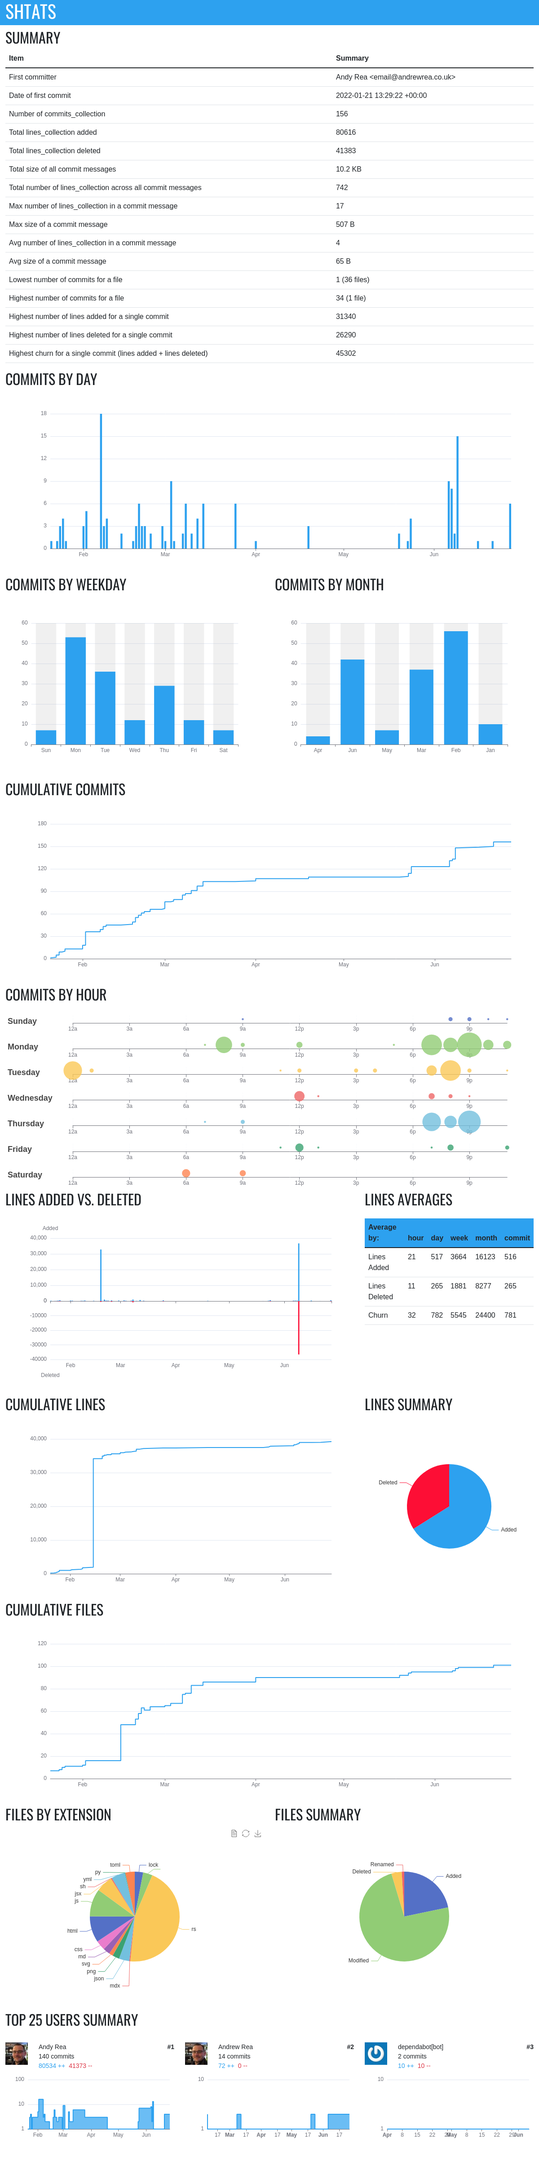
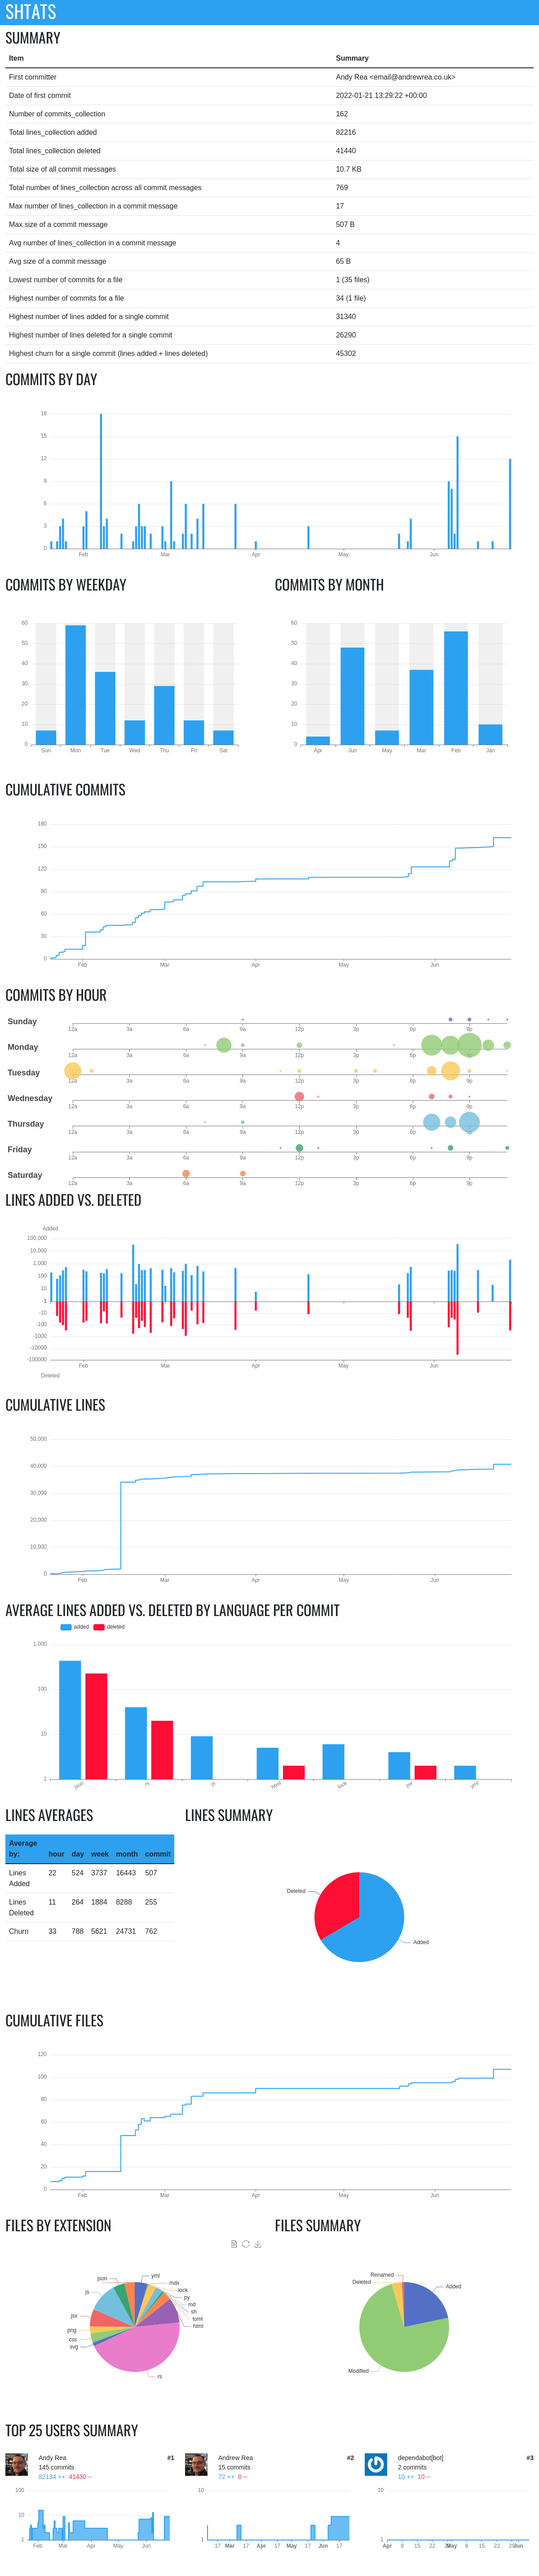
Fix the yaxis and how the totals are counted

diff --git a/report/html/components/lines_added_deleted_by_language/index.js b/report/html/components/lines_added_deleted_by_language/index.js
@@ -5,17 +5,16 @@ import {line_chart} from "../../utils/echarts";
 
 
 export default function LinesAddedDeletedByLanguage({data}) {
-    console.log('DATA for LinesAddedDeletedByLanguage', data)
     function draw(s, data) {
-        var chartDom = document.getElementById(s);
-        var myChart = echarts.init(chartDom);
-        var option;
+        const chartDom = document.getElementById(s);
+        const myChart = echarts.init(chartDom);
+        let option;
 
         let xAxisData = [];
         let data1 = [];
         let data2 = [];
 
-        data.sort((a, b) => {
+        data.filter((a) => a[1] > 1 || a[2] > 1).sort((a, b) => {
             return b[2] + b[1] > a[2] + a[1] ? 1 // if b should come earlier, push a to end
                 : b[2] + b[1] < a[2] + a[1] ? -1 // if b should come later, push a to begin
                     : 0;
@@ -34,9 +33,16 @@ export default function LinesAddedDeletedByLanguage({data}) {
                 data: xAxisData,
                 axisLine: {onZero: true},
                 splitLine: {show: false},
-                splitArea: {show: false}
+                splitArea: {show: false},
+                axisLabel: {
+                    interval: 0,
+                    rotate: 30 //If the label names are too long you can manage this by rotating the label.
+                }
             },
-            yAxis: {type: 'log',},
+            yAxis: {
+                type: 'log',
+             min: 1
+        },
             grid: {
                 left: 100,
                 top: 50,
@@ -56,7 +62,7 @@ export default function LinesAddedDeletedByLanguage({data}) {
                 {
                     name: 'deleted',
                     type: 'bar',
-                    stack: 'one',
+                    stack: 'two',
                     data: data2,
                     itemStyle: {
                         color: '#fd0e35'
@@ -78,6 +84,12 @@ export default function LinesAddedDeletedByLanguage({data}) {
         });
 
         option && myChart.setOption(option);
+
+        window.addEventListener('resize', function () {
+            if (myChart != null) {
+                myChart.resize();
+            }
+        });
     }
 
     useEffect(() => {

diff --git a/report/html/stories/LinesAddedDeletedByLanguage.stories.jsx b/report/html/stories/LinesAddedDeletedByLanguage.stories.jsx
@@ -45,7 +45,7 @@ function generate_data(language_count){
     for(let i  = 0; i < language_count;i++){
         let extension = make_extension();
         if (returnData.indexOf(extension) === -1) {
-            returnData.push([extension, getRandomIntInclusive(1,500), getRandomIntInclusive(1,500)]);
+            returnData.push([extension, getRandomIntInclusive(1,50000), getRandomIntInclusive(1,500)]);
         }
     }
     return returnData;

diff --git a/src/collectors/lines_by_average_by_file_extension.rs b/src/collectors/lines_by_average_by_file_extension.rs
@@ -39,8 +39,8 @@ impl GitStat for LinesByAverageByFileExtensionCollector {
                     added: 0,
                     deleted: 0,
                 });
-            extension_stat.added += commit.total_lines_added() as i64;
-            extension_stat.deleted += commit.total_lines_deleted() as i64;
+            extension_stat.added += line_stats.lines_added as i64;
+            extension_stat.deleted += line_stats.lines_deleted as i64;
         }
 
         self.total_commits += 1
@@ -86,28 +86,31 @@ mod tests {
         subject.process(&GitCommitBuilder::new()
             .for_date_time("2022-01-01 12:00:00")
             .with_lines(2, 12, "1.txt")
+            .with_lines(4, 6, "1.js")
             .build());
         subject.process(&GitCommitBuilder::new()
-            .for_date_time("2022-01-16 18:00:00")
-            .with_lines(2, 4, "1.js")
+            .for_date_time("2022-01-3 18:00:00")
+            .with_lines(2, 12, "1.txt")
+            .with_lines(4, 6, "1.js")
             .build());
 
         let result = subject.get_json_viewmodel().unwrap();
         //TODO: Create a struct for the result, deserialize the result and assert on the struct
         //      This applies to all types of assertions like this.
         assert_eq!(result.data.as_array().unwrap().len(), 2);
+
         assert_line_stat(&result.data, KeyedLineStat{
             key: "js".to_string(),
             stats: LineStats{
-                added: 1,
-                deleted: 2
+                added: 4,
+                deleted: 6
             }
         });
         assert_line_stat(&result.data, KeyedLineStat{
             key: "txt".to_string(),
             stats: LineStats{
-                added: 1,
-                deleted: 6
+                added: 2,
+                deleted: 12
             }
         });
     }
